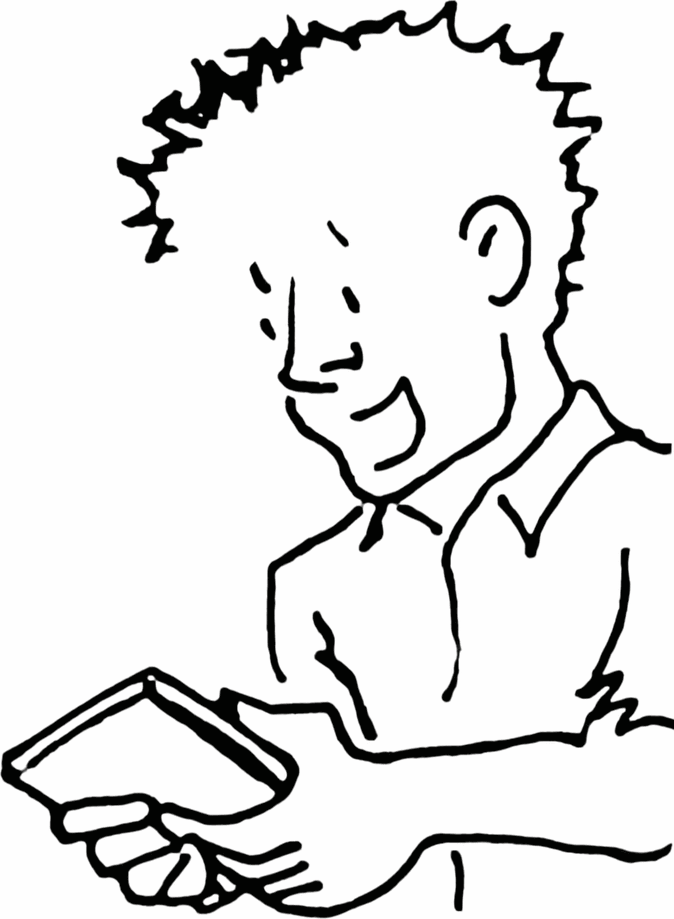
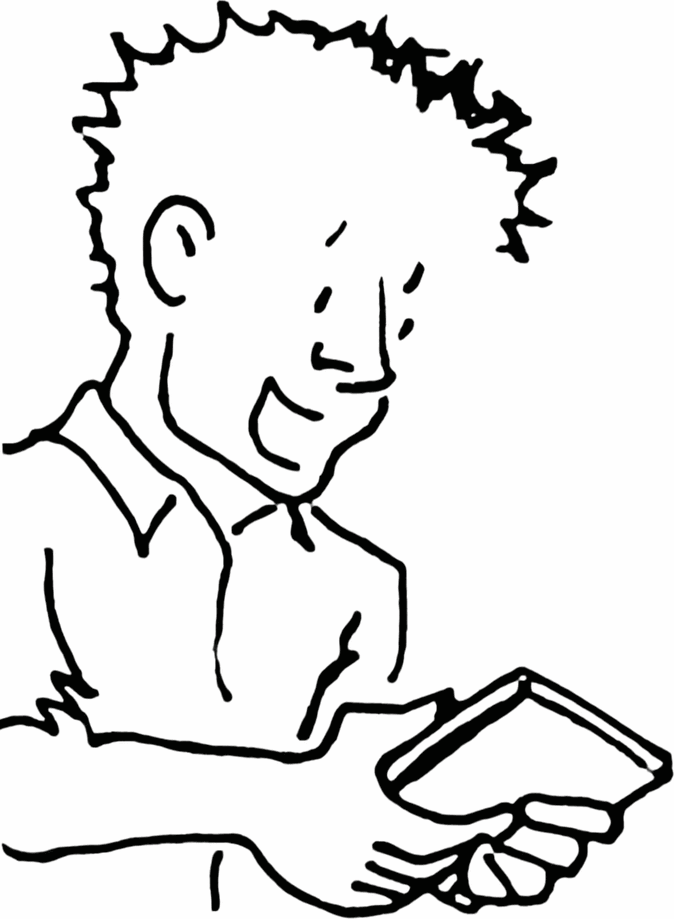
punk2 flipped, ..

diff --git a/web/oneofus.html b/web/oneofus.html
@@ -250,15 +250,18 @@ A network of the people, by the people, for the people.
     <!-- full-width comic band (punk2) -->
     <section class="hero">
       <div class="hero-inner">
-        <section class="comic rev">
+        <section class="comic">
+          <div class="comic-image">
+            <img src="img/punk2.png" style="max-width:160px; height:auto;" />
+          </div>
           <div class="bubble">
-            <p><em>All right... Cop Cam YouTube Comments...</em></p>
+            <p><em>All right... Cop Cam Taze of the Day Daily Edition YouTube Comments...</em></p>
             <p>
               Kick back, relax, and get radicalized..
               <br />
-              Sweet. Nice one! Yeah, get 'im. Sick! But wait..
+              Ha ha.. Nice one! Yup, she was asking for it. But wait..
               <br />
-              What's this? Compassion? empathy? .. Seems human generated
+              What's this? Compassion? Empathy? .. Seems human generated
             </p>
             <p>
               <strong>
@@ -266,9 +269,6 @@ A network of the people, by the people, for the people.
                 Right?
               </strong>
             </p>
-          </div>
-          <div class="comic-image">
-            <img src="img/punk2.png" style="max-width:160px; height:auto;" />
           </div>
         </section>
       </div>
